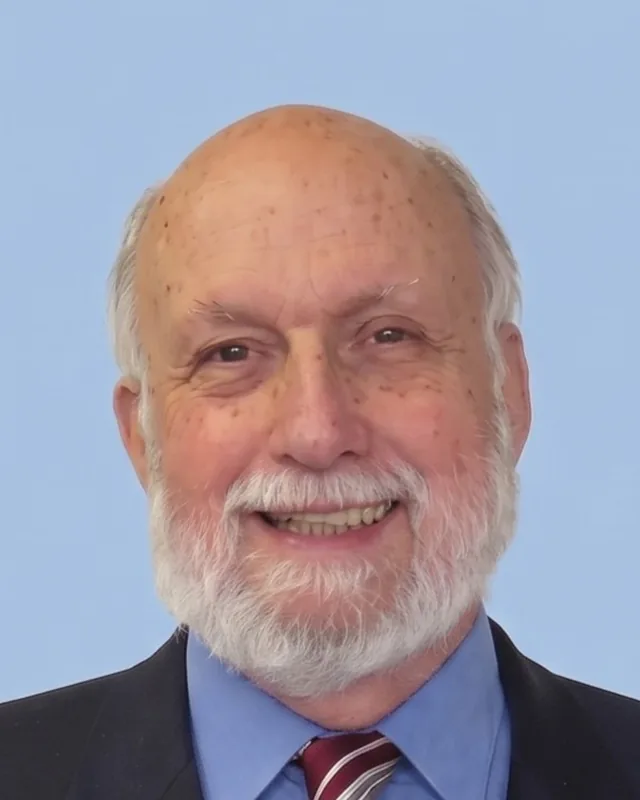
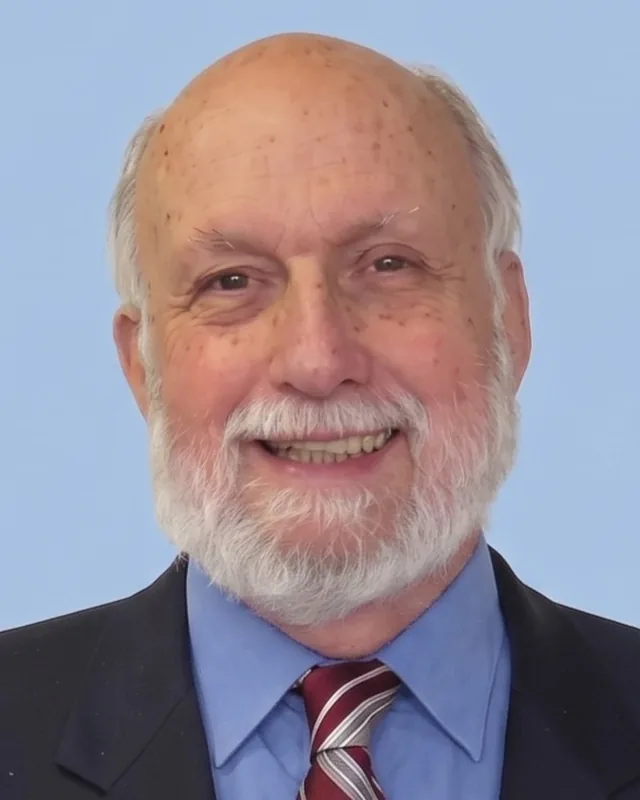
Apply 9/16 review edits across Home, About, Contact, Products, Clinical
- Home: reword NCS event blurb; use Fred's new headshot in the quote
- About: shift Charlie's crop down to show more of his suit
- Contact: show the 24/7 urgent support number and extension under the title
- Products: HMVS "delivers clinically", RS-232 "for connectivity to", and
  make the Single Lumen Bolt placement image open in the lightbox
- Clinical: drop the publications-library sentence, rename the videos
  button to "View Training Videos" and align it with On-Site Training,
  and update the Brain Temperature description

diff --git a/products.html b/products.html
@@ -292,7 +292,7 @@
                         </div>
                         <div class="product-card-body">
                             <h3 class="product-name">Hemodynamic Monitoring &amp; Visualization System (HMVS)</h3>
-                            <p class="product-description">The Bowman Perfusion Monitor already delivers clinically meaningful cerebral perfusion data at the bedside. HMVS builds on that foundation, expanding it into a larger, synchronized visual environment for live viewing and longitudinal review.</p>
+                            <p class="product-description">The Bowman Perfusion Monitor delivers clinically meaningful cerebral perfusion data at the bedside. HMVS builds on that foundation, expanding it into a larger, synchronized visual environment for live viewing and longitudinal review.</p>
                             <a href="#next-gen-monitor" class="btn btn-secondary">Learn More</a>
                         </div>
                     </article>
@@ -371,7 +371,7 @@
                         <div class="feature-item"><svg class="feat-icon" viewBox="0 0 24 24" fill="none" stroke="currentColor" stroke-width="2"><polyline points="20 6 9 17 4 12"/></svg>Detects cardiac-induced brain vessel pulsatility</div>
                         <div class="feature-item"><svg class="feat-icon" viewBox="0 0 24 24" fill="none" stroke="currentColor" stroke-width="2"><polyline points="20 6 9 17 4 12"/></svg>Requires no user calibration or zeroing</div>
                         <div class="feature-item"><svg class="feat-icon" viewBox="0 0 24 24" fill="none" stroke="currentColor" stroke-width="2"><polyline points="20 6 9 17 4 12"/></svg>IV pole or shelf mountable</div>
-                        <div class="feature-item"><svg class="feat-icon" viewBox="0 0 24 24" fill="none" stroke="currentColor" stroke-width="2"><polyline points="20 6 9 17 4 12"/></svg>Streams measurements via RS‑232 for multimodal data systems</div>
+                        <div class="feature-item"><svg class="feat-icon" viewBox="0 0 24 24" fill="none" stroke="currentColor" stroke-width="2"><polyline points="20 6 9 17 4 12"/></svg>Streams measurements via RS‑232 for connectivity to multimodal data systems</div>
                         <div class="feature-item"><svg class="feat-icon" viewBox="0 0 24 24" fill="none" stroke="currentColor" stroke-width="2"><polyline points="20 6 9 17 4 12"/></svg>User-friendly interface with easy-to-use menu buttons</div>
                         <div class="feature-item"><svg class="feat-icon" viewBox="0 0 24 24" fill="none" stroke="currentColor" stroke-width="2"><polyline points="20 6 9 17 4 12"/></svg>Prints tabular data and waveforms</div>
                         <div class="feature-item"><svg class="feat-icon" viewBox="0 0 24 24" fill="none" stroke="currentColor" stroke-width="2"><polyline points="20 6 9 17 4 12"/></svg>Programmable visual/audio alarm</div>
@@ -916,10 +916,9 @@
                         <p style="font-size:0.8125rem;color:var(--text-muted);margin-top:0.75rem;">* Hemedex makes no claims with respect to the functionality and performance of any sensor other than the Hemedex QFlow 500™ Perfusion Probe.</p>
                     </div>
 
-                    <div style="max-width: 320px; margin: 2rem 0;">
-                        <p style="font-size: 0.8125rem; color: var(--text-muted); margin-top: 0.5rem; text-align: center;"><strong>Perfusion Probe Depth Placement in the Single Lumen Bolt</strong></p>
-                        <img src="images/products/SLB_skull-image.png" alt="Single Lumen Bolt placement in cranium" loading="lazy" style="border-radius: var(--r-lg); border: 1px solid var(--border); box-shadow: var(--shadow-sm); width: 100%;">
-                        
+                    <div class="product-inline-img-wrap" style="max-width: 320px; margin: 2rem 0;">
+                        <img src="images/products/SLB_skull-image.png" alt="Single Lumen Bolt placement in cranium" loading="lazy" style="width: 100%; height: auto;">
+                        <p class="product-inline-caption"><strong>Perfusion Probe Depth Placement in the Single Lumen Bolt</strong></p>
                     </div>
 
                     <div class="product-faq">
@@ -975,7 +974,7 @@
                         <span class="product-detail-tag">Next Generation</span>
                         <span class="badge badge-dev" style="margin-left:0.75rem;display:inline-block;">In Development</span>
                         <h2 class="product-detail-title">Hemodynamic Monitoring &amp; Visualization System (HMVS)</h2>
-                        <p class="product-detail-desc">The Bowman Perfusion Monitor already delivers clinically meaningful cerebral perfusion data at the bedside. HMVS builds on that foundation, expanding it into a larger, synchronized visual environment for live viewing and longitudinal review — designed for the modern Neuro ICU and operating room.</p>
+                        <p class="product-detail-desc">The Bowman Perfusion Monitor delivers clinically meaningful cerebral perfusion data at the bedside. HMVS builds on that foundation, expanding it into a larger, synchronized visual environment for live viewing and longitudinal review — designed for the modern Neuro ICU and operating room.</p>
 
                         <div class="spec-list">
                             <div class="spec-item">

diff --git a/clinical.html b/clinical.html
@@ -316,7 +316,6 @@
                             <li><strong>Reconstructive Surgery</strong> — Perfusion monitoring in free tissue flaps and microvascular transplantation to detect early vascular compromise</li>
                             <li><strong>Oncology</strong> — Assessment of perfusion changes during tumor hyperthermia treatment</li>
                         </ul>
-                        <p style="margin-top: 0.75rem;">For a comprehensive list of publications in these areas, see the <a href="publications.html#transplantation" style="color: var(--primary-dark); font-weight: 600;">Transplantation / Surgery</a> and <a href="publications.html#methodology" style="color: var(--primary-dark); font-weight: 600;">Methodology</a> categories in our publications library.</p>
                     </div>
                 </div>
             </div>
@@ -536,12 +535,12 @@
                         </ul>
                     </div>
 
-                    <div style="text-align: center; margin-top: 2.5rem;">
+                    <div style="display: flex; flex-wrap: wrap; justify-content: center; align-items: center; gap: 1rem; margin-top: 2.5rem;">
                         <a href="https://www.youtube.com/channel/UCDMZ3P6b3M8cCwWg7AHebag" target="_blank" rel="noopener noreferrer" class="btn btn-secondary">
                             <svg width="18" height="18" viewBox="0 0 24 24" fill="currentColor" aria-hidden="true"><path d="M23.498 6.186a3.016 3.016 0 0 0-2.122-2.136C19.505 3.545 12 3.545 12 3.545s-7.505 0-9.377.505A3.017 3.017 0 0 0 .502 6.186C0 8.07 0 12 0 12s0 3.93.502 5.814a3.016 3.016 0 0 0 2.122 2.136c1.871.505 9.376.505 9.376.505s7.505 0 9.377-.505a3.015 3.015 0 0 0 2.122-2.136C24 15.93 24 12 24 12s0-3.93-.502-5.814zM9.545 15.568V8.432L15.818 12l-6.273 3.568z"/></svg>
-                            View All Training Videos
+                            View Training Videos
                         </a>
-                        <a href="contact.html" class="btn btn-primary" style="margin-left: 1rem;">Request On-Site Training</a>
+                        <a href="contact.html" class="btn btn-primary">Request On-Site Training</a>
                     </div>
                 </div>
             </div>
@@ -587,7 +586,7 @@
                         </div>
                         <div class="mmm-param-card">
                             <h4>Brain Temperature</h4>
-                            <p>Direct parenchymal temperature monitoring, often integrated with ICP or oxygen sensors.</p>
+                            <p>Direct parenchymal temperature monitoring derived from CBF probe.</p>
                         </div>
                         <div class="mmm-param-card">
                             <h4>Electrocorticography (ECoG)</h4>

diff --git a/index.html b/index.html
@@ -209,7 +209,7 @@
                         <span class="event-date">October 20–23, 2026</span>
                         <span class="event-location">NCS 24th Annual Meeting · Seattle, Washington</span>
                     </div>
-                    <p class="event-description">Join Hemedex in Seattle at the Neurocritical Care Society’s 24th Annual Meeting. Stop by to see the Bowman Perfusion Monitor and QFlow 500™ Perfusion Probe and talk with our team about continuous cerebral perfusion monitoring in multimodality neuromonitoring.</p>
+                    <p class="event-description">Join Hemedex in Seattle at the Neurocritical Care Society’s 24th Annual Meeting. Stop by to see the Bowman Perfusion Monitor and QFlow 500™ Perfusion Probe and talk with our team about new developments in continuous cerebral perfusion monitoring and its role in multimodal neuromonitoring.</p>
                     <div class="event-actions" style="margin-top: 1.25rem;">
                         <a href="https://www.neurocriticalcare.org/Events/Event-Calendar/Event-Details/ncs-24th-annual-meeting-2026" class="btn btn-secondary" target="_blank" rel="noopener noreferrer">Meeting Details</a>
                     </div>
@@ -301,7 +301,7 @@
                         <p class="testimonial-text">"Hemedex is the only company that provides a monitor for absolute real-time measurement of cerebral blood flow/perfusion in soft tissue. The Bowman Perfusion Monitor provides continuous bedside monitoring for up to ten days during Multimodal Monitoring in the Neuro ICU."</p>
                         <footer class="testimonial-author">
                             <div class="author-avatar">
-                                <img src="images/team/bowman.jpg" alt="Dr. H. Frederick Bowman" loading="lazy">
+                                <img src="images/team/blue-updated/h-frederick-bowman.webp" alt="Dr. H. Frederick Bowman" loading="lazy">
                             </div>
                             <div class="author-info">
                                 <strong>H. Frederick Bowman, PhD</strong>

diff --git a/contact.html b/contact.html
@@ -354,6 +354,7 @@
                                     </div>
                                     <strong class="contact-urgent-title">Urgent clinical support?</strong>
                                 </div>
+                                <a href="tel:+16175771759,105" class="contact-urgent-number">+1&nbsp;617&nbsp;577&nbsp;1759, ext.&nbsp;105</a>
                                 <p class="contact-urgent-text">Our emergency technical support line is available 24/7 for active patient situations.</p>
                                 <a href="tel:+16175771759,105" class="btn btn-outline-white contact-urgent-btn">
                                     <svg width="15" height="15" viewBox="0 0 24 24" fill="none" stroke="currentColor" stroke-width="2" aria-hidden="true"><path d="M22 16.92v3a2 2 0 01-2.18 2 19.79 19.79 0 01-8.63-3.07A19.5 19.5 0 013.07 9.8 19.79 19.79 0 01.22 1.18 2 2 0 012.22 0h3a2 2 0 012 1.72c.127.96.361 1.903.7 2.81a2 2 0 01-.45 2.11L6.91 7.09a16 16 0 006 6l.56-.56a2 2 0 012.11-.45c.907.339 1.85.573 2.81.7A2 2 0 0122 16.92z"/></svg>

diff --git a/styles.css b/styles.css
@@ -2570,6 +2570,15 @@ body.bio-dialog-open { overflow: hidden; }
     flex-shrink: 0;
 }
 .contact-urgent-title { font-size: 1rem; }
+.contact-urgent-number {
+    display: block;
+    font-size: 1.375rem;
+    font-weight: 700;
+    color: white;
+    letter-spacing: -0.01em;
+    margin-bottom: 0.625rem;
+}
+.contact-urgent-number:hover { text-decoration: underline; }
 .contact-urgent-text {
     font-size: 0.875rem;
     opacity: 0.85;
